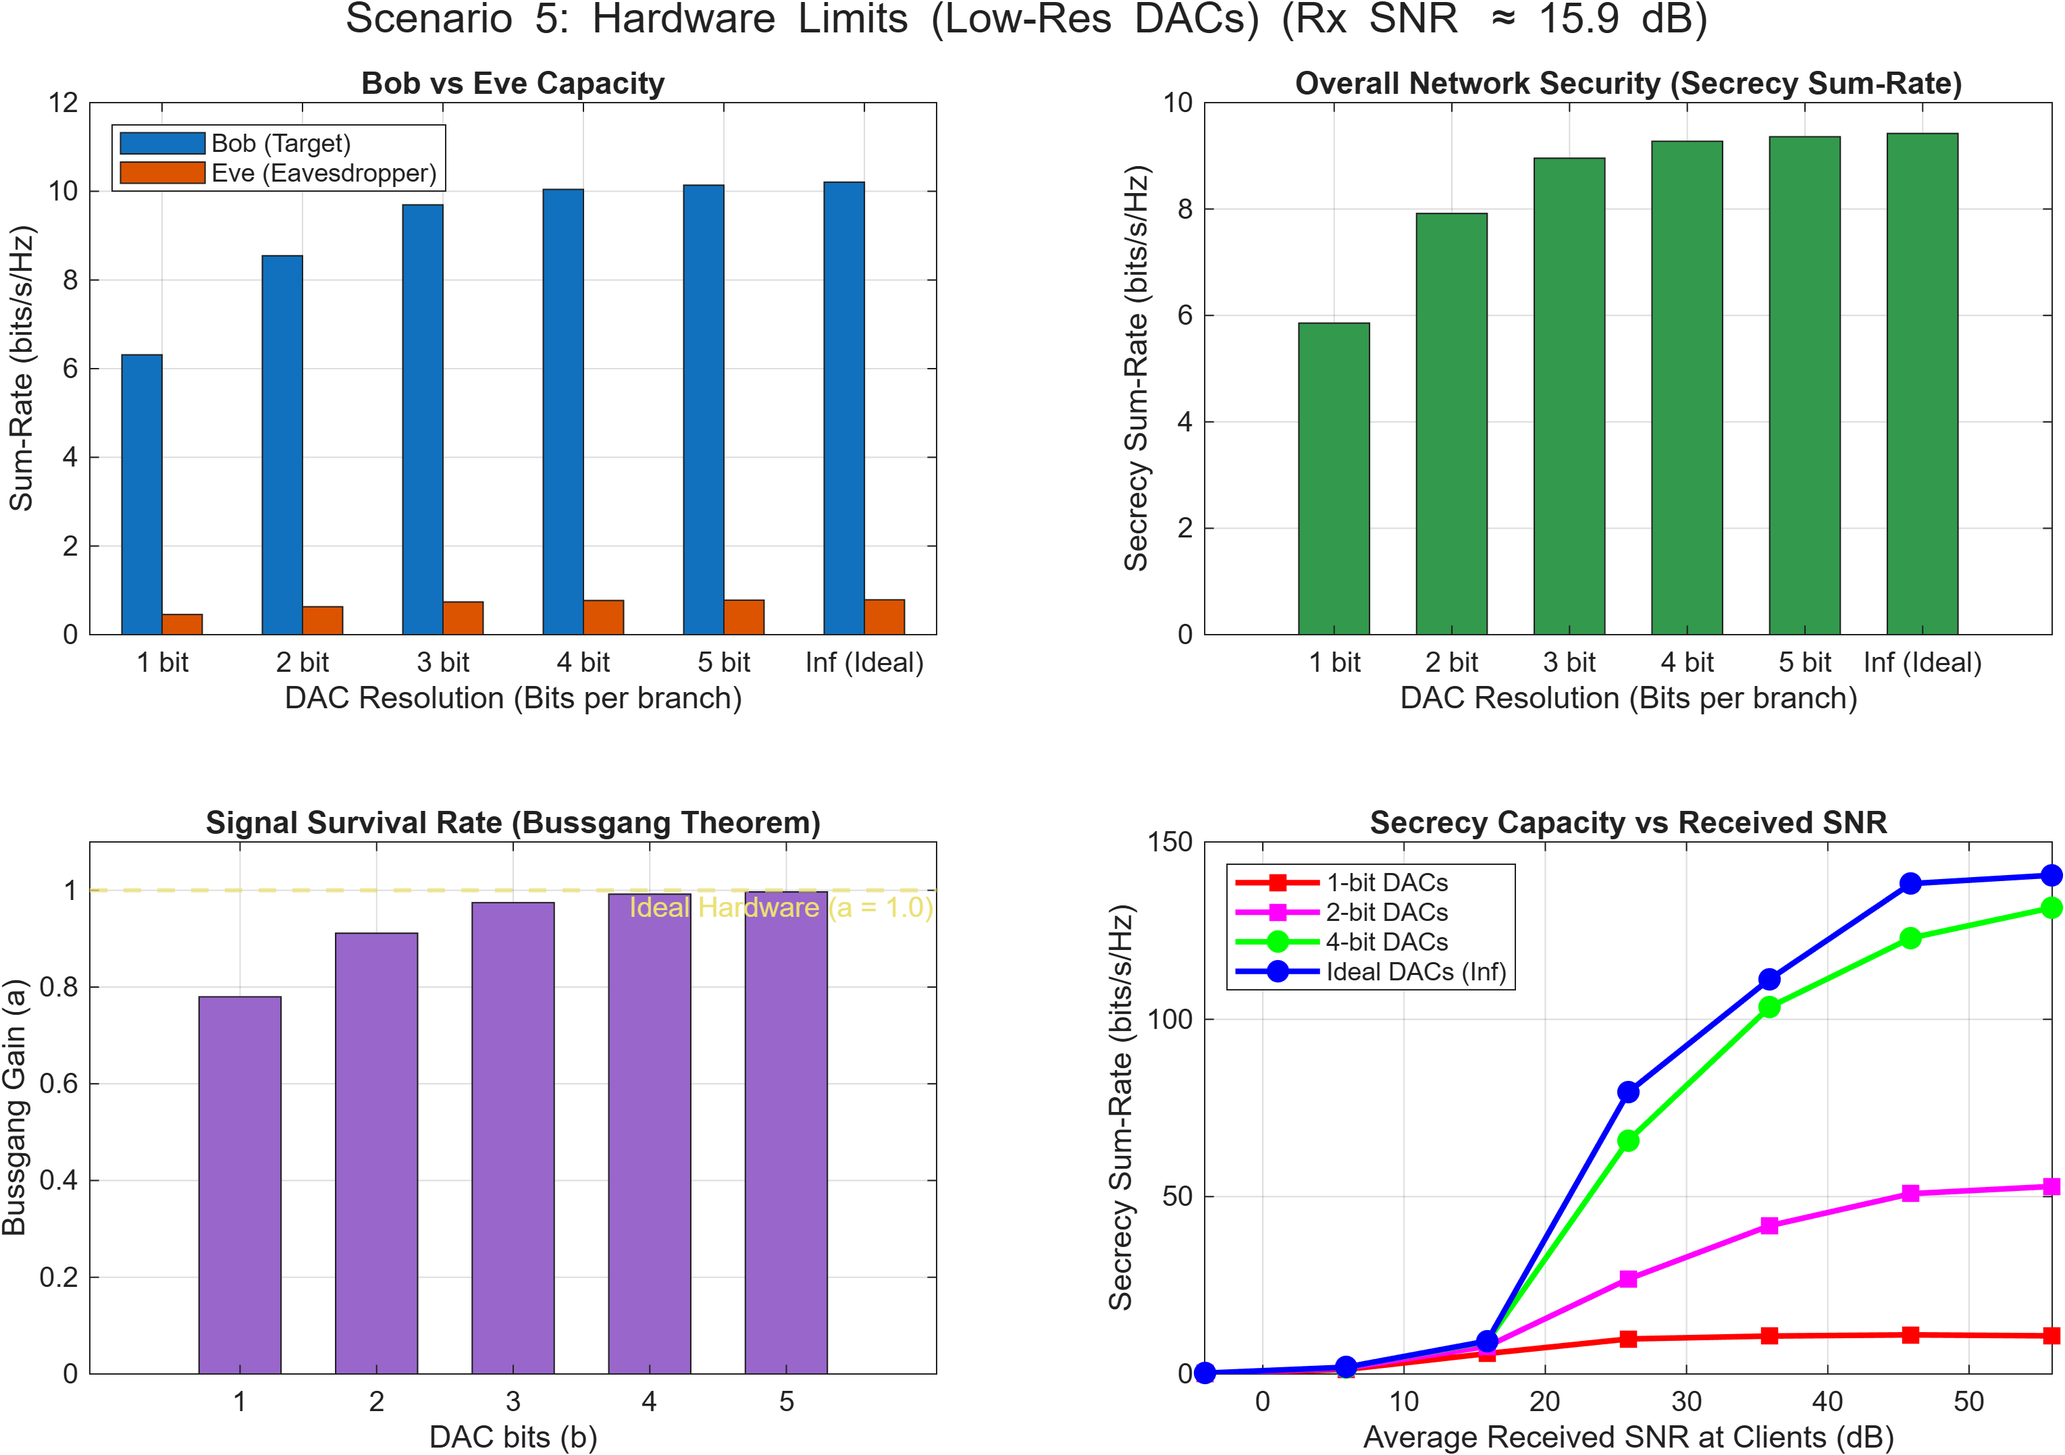
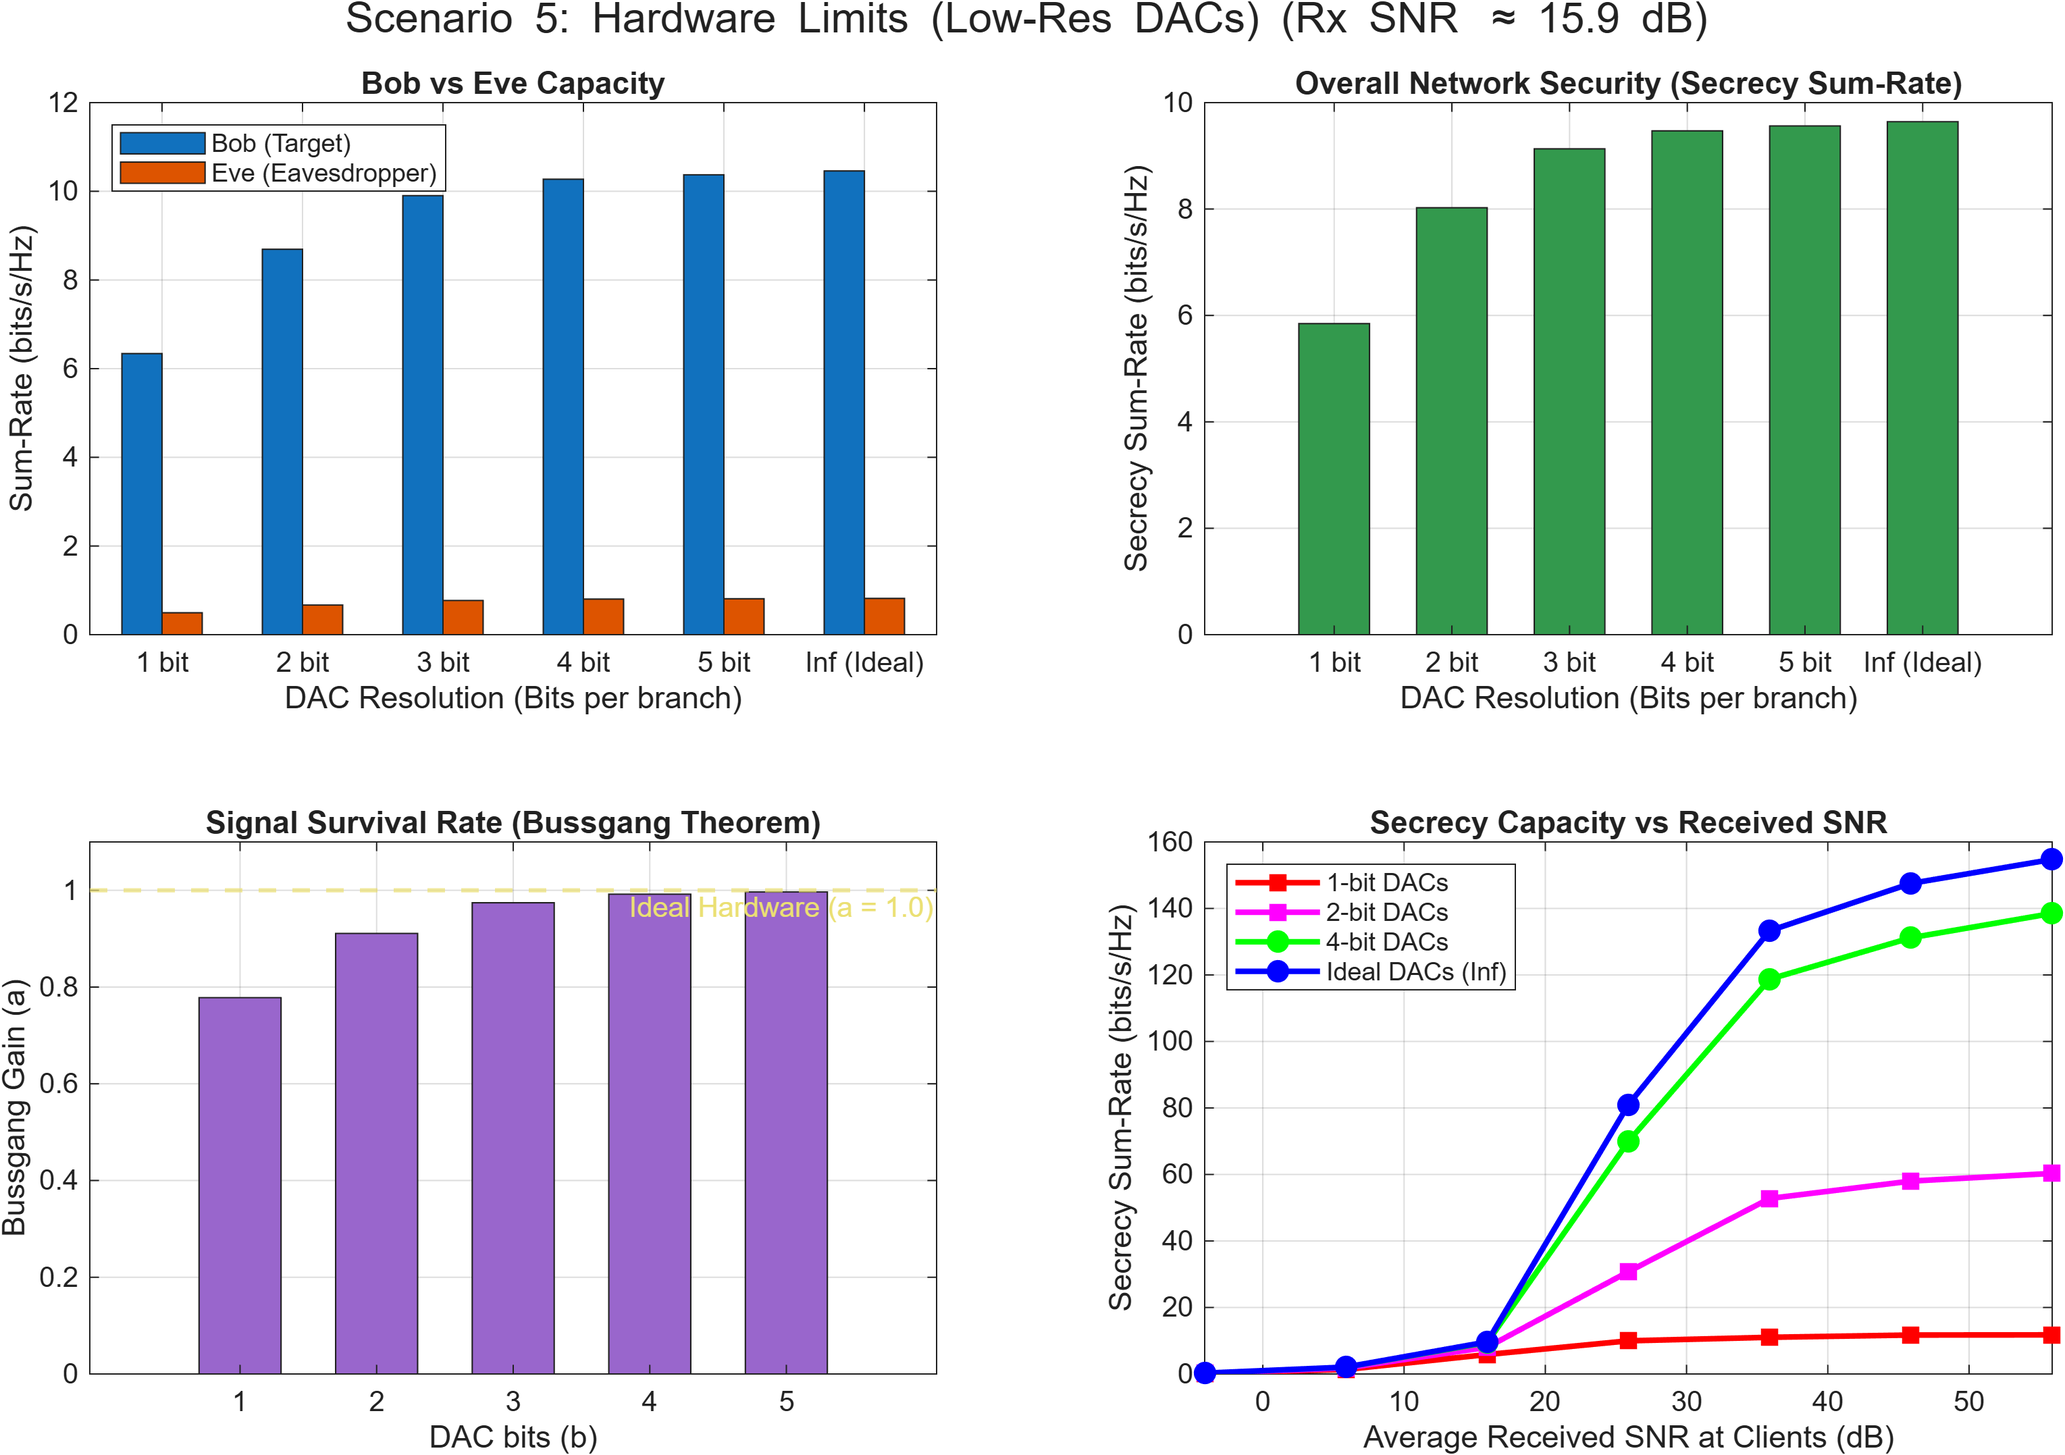
baseline and low_res_dac update

diff --git a/simulations/Ghz6_band_vs_mmWave_band.m b/simulations/Ghz6_band_vs_mmWave_band.m
@@ -33,7 +33,6 @@ bands = struct( ...
 for b = 1:2
     [bands(b).PL_lin_b, bands(b).PL_dB_b] = compute_nr_pathloss(dist_b, bands(b).fc);
     [bands(b).PL_lin_e, bands(b).PL_dB_e] = compute_nr_pathloss(dist_e, bands(b).fc);
-    [~, bands(b).sv] = setup_ula(bands(b).Nt, bands(b).fc);
     
     rx_snr_start = P_tx_norm_dB(1) + 10*log10(bands(b).Nt) - bands(b).PL_dB_b;
     rx_snr_end   = P_tx_norm_dB(end) + 10*log10(bands(b).Nt) - bands(b).PL_dB_b;
@@ -44,6 +43,7 @@ for b = 1:2
     fprintf('  Bob (d = %g m, PL = %.2f dB)\n', dist_b, bands(b).PL_dB_b);
     fprintf('  Eve (d = %g m, PL = %.2f dB)\n', dist_e, bands(b).PL_dB_e);
 end
+
 fprintf('\nmmWave path-loss penalty vs 6 GHz (Bob): %.2f dB\n', ...
     bands(2).PL_dB_b - bands(1).PL_dB_b);
 
@@ -107,137 +107,46 @@ end
 SecrecyCap = SecrecyCap / numIter;
 
 % =========================================================================
-% TWORZENIE WYKRESÓW I ZDJĘCIE SYTUACYJNE (SNAPSHOT)
+% TWORZENIE WYKRESÓW POJEMNOŚCI (PANORAMA 1x2)
 % =========================================================================
-snap_theta_b = theta_b; snap_theta_e = theta_e;
-angles = -90:0.05:90;
-
-% Tworzymy figurę i twardo ustawiamy białe tło środowiska
-fig = figure('Color', 'w', 'Position', [100 100 1100 800]);
+% Panoramiczne proporcje figury dopasowane do układu dwóch wykresów obok siebie
+fig = figure('Color', 'w', 'Position', [100 100 1200 480]);
 
 for f_idx = 1:2
-    fc = bands(f_idx).fc; 
     Nt = bands(f_idx).Nt; 
-    sv = bands(f_idx).sv;
-    cdl_tag = bands(f_idx).cdl;
     PL_dB_b = bands(f_idx).PL_dB_b;
     bandStr = [bands(f_idx).name, ' (nrCDLChannel)'];
     
     % Przeliczenie osi X na rzeczywisty Received SNR u Boba
     SNR_rx_dB_plot = P_tx_norm_dB + 10*log10(Nt) - PL_dB_b;
     
-    cdl_b_s = setup_matlab_cdl(Nt, fc, snap_theta_b, cdl_tag);
-    cdl_e_s = setup_matlab_cdl(Nt, fc, snap_theta_e, cdl_tag);
-    cdl_b_s.Seed = 102;
-    cdl_e_s.Seed = 102; 
-    
-    [pg_b_s, ~] = cdl_b_s();
-    [pg_e_s, ~] = cdl_e_s();
-    
-    hb_s = squeeze(sum(pg_b_s, 2)); hb_s = hb_s(:); 
-    he_s = squeeze(sum(pg_e_s, 2)); he_s = he_s(:); 
-    
-    w_mrt_s = hb_s / norm(hb_s);
-    P_null_s = eye(Nt) - (he_s * (he_s' / (he_s' * he_s)));
-    w_zf_s = P_null_s * hb_s; w_zf_s = w_zf_s / norm(w_zf_s);
-    
-    a_sweep = step(sv, fc, angles);
-    
-    % --- WYKRES POJEMNOŚCI ---
-    ax1 = subplot(2, 2, f_idx);
+    % --- WYKRES POJEMNOŚCI (Układ 1x2) ---
+    ax1 = subplot(1, 2, f_idx);
     plot(SNR_rx_dB_plot, squeeze(SecrecyCap(f_idx,1,:)), 'b-o', 'LineWidth', 1.5, 'MarkerFaceColor', 'b'); hold on;
     plot(SNR_rx_dB_plot, squeeze(SecrecyCap(f_idx,2,:)), 'r--s', 'LineWidth', 1.5, 'MarkerFaceColor', 'r');
     grid on; box on;
     
     title(['Secrecy: ', bandStr], 'Color', 'k');
-    % OŚ X USTAWIENIE: Received SNR at Bob (dB)
     xlabel('Average Receiver SNR at Bob (dB)', 'Color', 'k'); 
-    ylabel('bits/s/Hz', 'Color', 'k');
+    ylabel('Secrecy Rate (bits/s/Hz)', 'Color', 'k');
     
     lgd = legend('MRT', 'ZF', 'Location', 'NorthWest');
     set(lgd, 'Color', 'w', 'TextColor', 'k', 'EdgeColor', 'k');
     xlim([min(SNR_rx_dB_plot), max(SNR_rx_dB_plot)]);
     set(ax1, 'Color', 'w', 'XColor', 'k', 'YColor', 'k', 'GridColor', 'k', 'GridAlpha', 0.15);
-    
-    % --- WYKRES WIĄZKI ABSOLUTNEJ (Antenna Gain, PSLL, HPBW) ---
-    pat_mrt_abs = 10*log10(abs(w_mrt_s' * a_sweep).^2);
-    pat_zf_abs  = 10*log10(abs(w_zf_s'  * a_sweep).^2);
-    
-    ax2 = subplot(2, 2, f_idx + 2);
-    plot(angles, pat_mrt_abs, 'b',  'LineWidth', 1.7); hold on;
-    plot(angles, pat_zf_abs,  'r--','LineWidth', 1.5);
-    
-    % Szukanie parametrów głównej wiązki (na przykładzie wiązki MRT)
-    [peak_gain, peak_idx] = max(pat_mrt_abs);
-    
-    % --- OBLICZANIE HPBW (3dB Beamwidth) ---
-    level_3db = peak_gain - 3.0;
-    
-    % Szukaj w lewo od piku
-    idx_left = find(pat_mrt_abs(1:peak_idx) <= level_3db, 1, 'last');
-    if isempty(idx_left), idx_left = 1; end
-    
-    % Szukaj w prawo od piku
-    idx_right = find(pat_mrt_abs(peak_idx:end) <= level_3db, 1, 'first') + peak_idx - 1;
-    if isempty(idx_right), idx_right = length(angles); end
-    
-    hpbw_deg = angles(idx_right) - angles(idx_left);
-    
-    % Zaznaczenie HPBW na wykresie
-    plot([angles(idx_left), angles(idx_right)], [level_3db, level_3db], 'k|-', 'LineWidth', 1.5, 'MarkerSize', 6);
-    
-    % --- OBLICZANIE PSLL ---
-    [pks, locs] = findpeaks(pat_mrt_abs);
-    exclusion_zone_deg = 5; 
-    angle_step = angles(2) - angles(1);
-    exclusion_samples = round(exclusion_zone_deg / angle_step);
-    
-    valid_idx = abs(locs - peak_idx) > exclusion_samples;
-    valid_pks = pks(valid_idx);
-    valid_locs = locs(valid_idx);
-    
-    if ~isempty(valid_pks)
-        [sidelobe_gain, max_sidelobe_idx_temp] = max(valid_pks);
-        sidelobe_idx = valid_locs(max_sidelobe_idx_temp);
-        psll = peak_gain - sidelobe_gain;
-        
-        plot(angles(sidelobe_idx), sidelobe_gain, 'kv', 'MarkerFaceColor', 'y', 'MarkerSize', 6);
-        plot([angles(sidelobe_idx), angles(peak_idx)], [sidelobe_gain, sidelobe_gain], 'k:', 'LineWidth', 1.5);
-        
-        txt = sprintf('Max Gain: %.1f dB\nHPBW (3dB): %.1f\\circ\nPSLL: %.1f dB', peak_gain, hpbw_deg, psll);
-    else
-        txt = sprintf('Max Gain: %.1f dB\nHPBW (3dB): %.1f\\circ\nPSLL: N/A', peak_gain, hpbw_deg);
-    end
-    
-    text(0.96, 0.94, txt, 'Units', 'normalized', ...
-         'HorizontalAlignment', 'right', 'VerticalAlignment', 'top', ...
-         'FontSize', 10, 'Color', 'k', 'BackgroundColor', 'w', ...
-         'EdgeColor', 'k', 'Margin', 4);
-         
-    mark_bob(snap_theta_b, 'Bob');
-    mark_eve(snap_theta_e, 'Eve');
-    pls_axis_prefs(gca, 'refLabelV', 'top', 'staggerRef', true);
-    
-    grid on; box on;
-    title(['Absolute beam pattern: ', bandStr], 'Color', 'k');
-    xlabel('Angle (deg)', 'Color', 'k'); 
-    ylabel('Gain (dB)', 'Color', 'k');
-    
-    ylim([-60, ceil(peak_gain/5)*5 + 5]);
-    xlim([-90, 90]);
-    set(ax2, 'Color', 'w', 'XColor', 'k', 'YColor', 'k', 'GridColor', 'k', 'GridAlpha', 0.15);
 end
 
-sgt = sgtitle(sprintf('6G PLS Baseline (Bob = %gm, Eve = %gm)', dist_b, dist_e));
+sgt = sgtitle(sprintf('Scenario1: 6GHz vs mmWave Comparison'));
 set(sgt, 'Color', 'k', 'FontWeight', 'bold');
-
 set(fig, 'InvertHardcopy', 'off');
 set(fig, 'Color', 'w');
+
 try
     save_figure(fig, 'fig_baseline_6GHz_vs_28GHz');
 catch
     warning('Funkcja save_figure nie jest dostępna. Wykres nie został zapisany automatycznie.');
 end
+
 plot_topology(dist_b, theta_b, dist_e, theta_e);
 
 % =========================================================================
@@ -249,7 +158,7 @@ function cdl = setup_matlab_cdl(Nt, fc, theta, band_tag)
     if fc < 10e9  
         cdl.DelaySpread = 30e-9;  
     else          
-        cdl.DelaySpread = 10e-9;  
+        cdl.DelaySpread = 10e-10; % dostosowane do mmWave  
     end
     cdl.CarrierFrequency = fc;
     cdl.MaximumDopplerShift = 0;         
@@ -271,15 +180,13 @@ function plot_topology(dist_b, theta_b, dist_e, theta_e)
     set(ax, 'Color', 'w', 'XColor', 'k', 'YColor', 'k', 'GridColor', 'k', 'GridAlpha', 0.15);
     
     hold on; grid on; box on;
-    t = linspace(0, 2*pi, 100);
-    plot(dist_b * sin(t), dist_b * cos(t), 'b:', 'LineWidth', 1, 'HandleVisibility', 'off');
-    plot(dist_e * sin(t), dist_e * cos(t), 'r:', 'LineWidth', 1, 'HandleVisibility', 'off');
-    plot([x_bs, x_b], [y_bs, y_b], 'b-', 'LineWidth', 1.5, 'HandleVisibility', 'off');
-    plot([x_bs, x_e], [y_bs, y_e], 'r--', 'LineWidth', 1.5, 'HandleVisibility', 'off');
-    plot(x_bs, y_bs, 'k^', 'MarkerSize', 12, 'MarkerFaceColor', 'k', 'DisplayName', 'Base Station (BS)');
-    plot(x_b, y_b, 'bo', 'MarkerSize', 10, 'MarkerFaceColor', 'b', 'DisplayName', 'Bob');
-    plot(x_e, y_e, 'rs', 'MarkerSize', 10, 'MarkerFaceColor', 'r', 'DisplayName', 'Eve');
     
+    % Rysowanie wyłącznie punktów obiektów fizycznych
+    p_bs = plot(x_bs, y_bs, 'k^', 'MarkerSize', 12, 'MarkerFaceColor', 'k', 'DisplayName', 'Base Station (BS)');
+    p_b  = plot(x_b, y_b, 'bo', 'MarkerSize', 10, 'MarkerFaceColor', 'b', 'DisplayName', 'Bob');
+    p_e  = plot(x_e, y_e, 'rs', 'MarkerSize', 10, 'MarkerFaceColor', 'r', 'DisplayName', 'Eve');
+    
+    % Tekstowe etykiety współrzędnych i odległości
     text(x_b + 2, y_b, sprintf('Bob\n(%gm, %g\\circ)', dist_b, theta_b), 'Color', 'b', 'FontSize', 10);
     text(x_e + 2, y_e, sprintf('Eve\n(%gm, %g\\circ)', dist_e, theta_e), 'Color', 'r', 'FontSize', 10);
     text(x_bs, y_bs - 3, 'BS (0,0)', 'HorizontalAlignment', 'center', 'FontSize', 10, 'Color', 'k');
@@ -288,9 +195,9 @@ function plot_topology(dist_b, theta_b, dist_e, theta_e)
     max_d = max(dist_b, dist_e) + 15;
     xlim([-max_d, max_d]); ylim([-max_d/2, max_d]);
     xlabel('X [m]', 'Color', 'k'); ylabel('Y [m]', 'Color', 'k');
-    title('Scenario 1: 6GHz vs mmWave', 'Color', 'k');
+    title('Scenario 1: 6GHz vs mmWave Topology', 'Color', 'k');
     
-    lgd = legend('Location', 'NorthEast');
+    lgd = legend([p_bs, p_b, p_e], 'Location', 'NorthEast');
     set(lgd, 'Color', 'w', 'TextColor', 'k', 'EdgeColor', 'k');
     
     set(fig_top, 'InvertHardcopy', 'off');

diff --git a/simulations/sim_low_res_dac.m b/simulations/sim_low_res_dac.m
@@ -4,6 +4,7 @@
 % Zaktualizowano: Tłumienie trasy compute_nr_pathloss (model 3GPP),
 % oś X dla sweepu mocy oraz tytuł lewego górnego wykresu zmienione na Rx SNR.
 % Dopasowano osie xlim w prawym dolnym wykresie (brak przerw).
+% ZAWARTY FIX: Implementacja Common Random Numbers (CRN) dla stabilności.
 % =========================================================================
 pls_startup();
 addpath(fullfile(fileparts(mfilename('fullpath')), '..', 'utils'));
@@ -57,28 +58,32 @@ a_acc_vec = zeros(1, length(b_vec));
 a_n_vec   = zeros(1, length(b_vec));
 R_sec_snr_acc = zeros(length(b_show), length(SNR_tx_vec));
 
+% [CRN]: Wektor stałych seedów wygenerowany globalnie dla obu sweepów
+seeds = randi([0 2^31-1], numIter, 1);
+
 % =========================================================================
 % --- SWEEP A: Wpływ rozdzielczości DAC (b) przy stałym Transmit SNR
 % =========================================================================
 fprintf('Rozpoczynam Sweep A (Rozdzielczość DAC)...\n');
 P_tx = 10^(SNR_fixed / 10);
-
 for it = 1:numIter
-    common_seed = randi([0 2^31-1]);
+    iter_seed = seeds(it); % Pobranie seeda przypisanego do danej iteracji
     
     H_eff = zeros(Nt, K);
     for k = 1:K
-        release(cdl_b{k}); cdl_b{k}.Seed = common_seed;
+        release(cdl_b{k}); cdl_b{k}.Seed = iter_seed;
         [pg_b, ~] = cdl_b{k}(); hb = squeeze(sum(pg_b, 2)); hb = hb(:);
         H_eff(:, k) = sqrt(1 / PL_lin_b) * hb; 
     end
-    release(cdl_e); cdl_e.Seed = common_seed;
+    release(cdl_e); cdl_e.Seed = iter_seed;
     [pg_e, ~] = cdl_e(); he = squeeze(sum(pg_e, 2)); he = he(:);
     h_eff_e = sqrt(1 / PL_lin_e) * he;
     
     W_raw = H_eff * pinv(H_eff' * H_eff);
     W = W_raw / norm(W_raw, 'fro') * sqrt(P_tx);
     
+    % [CRN]: Wymuszenie seeda przed generowaniem losowych symboli i szumów
+    rng(iter_seed);
     s = (randn(K, numSym) + 1j*randn(K, numSym)) / sqrt(2);
     x = W * s;
     n_th_b = sqrt(noise_var/2) * (randn(K, numSym) + 1j*randn(K, numSym));
@@ -118,7 +123,6 @@ for it = 1:numIter
         R_sec_acc(bi) = R_sec_acc(bi) + sum_R_s;
     end
 end
-
 R_bob = R_bob_acc / numIter;
 R_eve = R_eve_acc / numIter;
 R_sec = R_sec_acc / numIter;
@@ -132,21 +136,23 @@ for s_idx = 1:length(SNR_tx_vec)
     P_tx_s = 10^(SNR_tx_vec(s_idx)/10);
     
     for it = 1:numIter
-        common_seed = randi([0 2^31-1]);
+        iter_seed = seeds(it); % Wykorzystanie identycznego zestawu seedów kanałowych!
         
         H_eff = zeros(Nt, K);
         for k = 1:K
-            release(cdl_b{k}); cdl_b{k}.Seed = common_seed;
+            release(cdl_b{k}); cdl_b{k}.Seed = iter_seed;
             [pg_b, ~] = cdl_b{k}(); hb = squeeze(sum(pg_b, 2)); hb = hb(:);
             H_eff(:, k) = sqrt(1 / PL_lin_b) * hb; 
         end
-        release(cdl_e); cdl_e.Seed = common_seed;
+        release(cdl_e); cdl_e.Seed = iter_seed;
         [pg_e, ~] = cdl_e(); he = squeeze(sum(pg_e, 2)); he = he(:);
         h_eff_e = sqrt(1 / PL_lin_e) * he;
         
         W_raw = H_eff * pinv(H_eff' * H_eff);
         W     = W_raw / norm(W_raw, 'fro') * sqrt(P_tx_s);
         
+        % [CRN]: Wymuszenie identycznego seeda dla symboli i szumów przy stałym 'it'
+        rng(iter_seed);
         s = (randn(K, numSym) + 1j*randn(K, numSym)) / sqrt(2);
         x = W * s;
         n_th_b = sqrt(noise_var/2) * (randn(K, numSym) + 1j*randn(K, numSym));
@@ -184,13 +190,13 @@ fig = figure('Color', 'w', 'Position', [100 100 1200 760]);
 bar_x = 1:length(b_vec);
 bar_labels = arrayfun(@(b) ternary(isinf(b), 'Inf (Ideal)', sprintf('%d bit', b)), b_vec, 'UniformOutput', false);
 
-% Górny Lewy: Pojemność Boba i Ewy vs Rozdzielczość (ZMODYFIKOWANY TYTUŁ)
+% Górny Lewy: Pojemność Boba i Ewy vs Rozdzielczość
 subplot(2, 2, 1);
 bar(bar_x, [R_bob(:) R_eve(:)], 1.0); grid on; box on;
 set(gca, 'XTick', bar_x, 'XTickLabel', bar_labels);
 xlabel('DAC Resolution (Bits per branch)');
 ylabel('Sum-Rate (bits/s/Hz)');
-title(sprintf('Bob vs Eve Capacity')); % <-- ZMIANA NA RX SNR
+title(sprintf('Bob vs Eve Capacity')); 
 legend('Bob (Target)', 'Eve (Eavesdropper)', 'Location', 'NorthWest');
 
 % Górny Prawy: Secrecy Rate vs Rozdzielczość
@@ -215,7 +221,7 @@ xlabel('DAC bits (b)'); ylabel('Bussgang Gain (a)');
 title('Signal Survival Rate (Bussgang Theorem)');
 ylim([0 1.1]);
 
-% Dolny Prawy: Sweep SNR (ZMODYFIKOWANE DOPASOWANIE OSI)
+% Dolny Prawy: Sweep SNR
 subplot(2, 2, 4);
 markers = {'-rs', '-ms', '-go', '-bo'};
 hold on;
@@ -223,7 +229,7 @@ for ii = 1:length(b_show)
     plot(Rx_SNR_sweep_dB, R_sec_snr(ii,:), markers{ii}, 'LineWidth', 2, 'MarkerFaceColor', markers{ii}(2));
 end
 grid on; box on;
-xlim([min(Rx_SNR_sweep_dB) max(Rx_SNR_sweep_dB)]); % <-- ZMIANA (LIKWIDACJA PRZERW PO BOKACH)
+xlim([min(Rx_SNR_sweep_dB) max(Rx_SNR_sweep_dB)]); 
 xlabel('Average Received SNR at Clients (dB)');
 ylabel('Secrecy Sum-Rate (bits/s/Hz)');
 title('Secrecy Capacity vs Received SNR');
@@ -231,7 +237,6 @@ labels = arrayfun(@(b) ternary(isinf(b), 'Ideal DACs (Inf)', sprintf('%d-bit DAC
 legend(labels, 'Location', 'NorthWest');
 
 sgtitle(sprintf('Scenario 5: Hardware Limits (Low-Res DACs) (Rx SNR \\approx %.1f dB)', Rx_SNR_dB_b));
-
 save_figure(fig, 'fig_low_res_dac');
 plot_dac_topology(dist_b, theta_bobs, dist_e, theta_e);
 
@@ -275,28 +280,21 @@ function out = ternary(cond, a, b)
     if cond, out = a; else, out = b; end
 end
 
-% =========================================================================
-% FUNKCJA POMOCNICZA: Generowanie topologii scenariusza (DAC Quantisation)
-% =========================================================================
 function plot_dac_topology(dist_b, theta_bobs, dist_e, theta_e)
     fig_top = figure('Color', 'w', 'Position', [150 150 700 700]);
     hold on; grid on; box on;
     
-    % Konwersja na współrzędne kartezjańskie (BS w 0,0)
     x_bs = 0; y_bs = 0;
     max_d = max(dist_b, dist_e) + 15;
     
-    % Rysowanie BS
     p_bs = plot(x_bs, y_bs, 'k^', 'MarkerSize', 12, 'MarkerFaceColor', 'k', 'DisplayName', 'Base Station (BS)');
     text(x_bs, y_bs - 4, 'BS (0,0)', 'HorizontalAlignment', 'center', 'Color', 'k');
     
-    % Rysowanie Ewy
     x_e = dist_e * sind(theta_e);
     y_e = dist_e * cosd(theta_e);
     p_e = plot(x_e, y_e, 'rs', 'MarkerSize', 10, 'MarkerFaceColor', 'r', 'DisplayName', 'Eve');
     text(x_e + 2, y_e, sprintf('Eve\n(%gm, %g\\circ)', dist_e, theta_e), 'Color', 'r', 'FontSize', 9);
     
-    % Rysowanie Bobów
     p_b = [];
     for k = 1:length(theta_bobs)
         x_b = dist_b * sind(theta_bobs(k));
@@ -310,7 +308,6 @@ function plot_dac_topology(dist_b, theta_bobs, dist_e, theta_e)
         set(p_b, 'DisplayName', sprintf('Bobs (K=%d)', length(theta_bobs)));
     end
     
-    % Ustawienia osi
     axis equal;
     xlim([-max_d, max_d]);
     ylim([-10, max_d]);
@@ -318,7 +315,6 @@ function plot_dac_topology(dist_b, theta_bobs, dist_e, theta_e)
     title(sprintf('Scenario 5: Hardware Limits (K=%d Bobs, 1 Eve)', length(theta_bobs)));
     legend([p_bs, p_b, p_e], 'Location', 'NorthWest');
     
-    % Zapis do pliku
     try
         save_figure(fig_top, '../topology/topology_low_res_dac');
     catch
